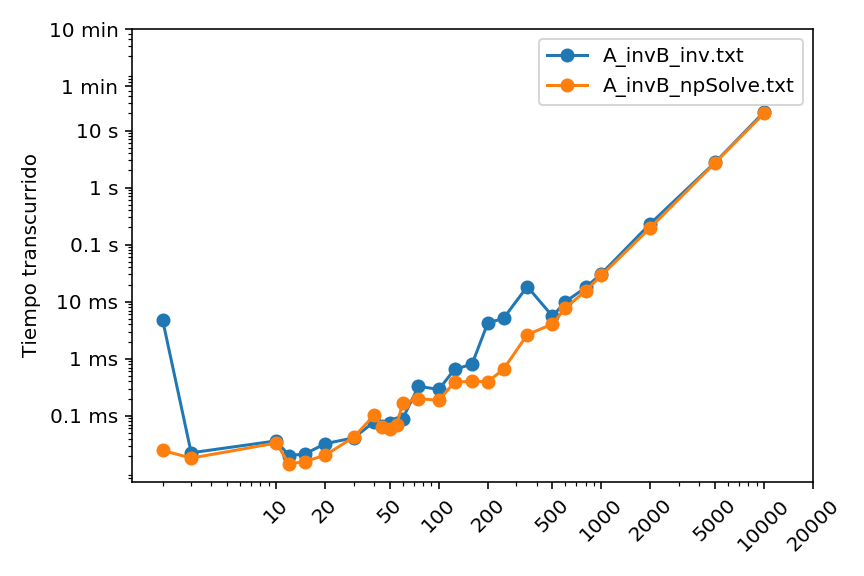
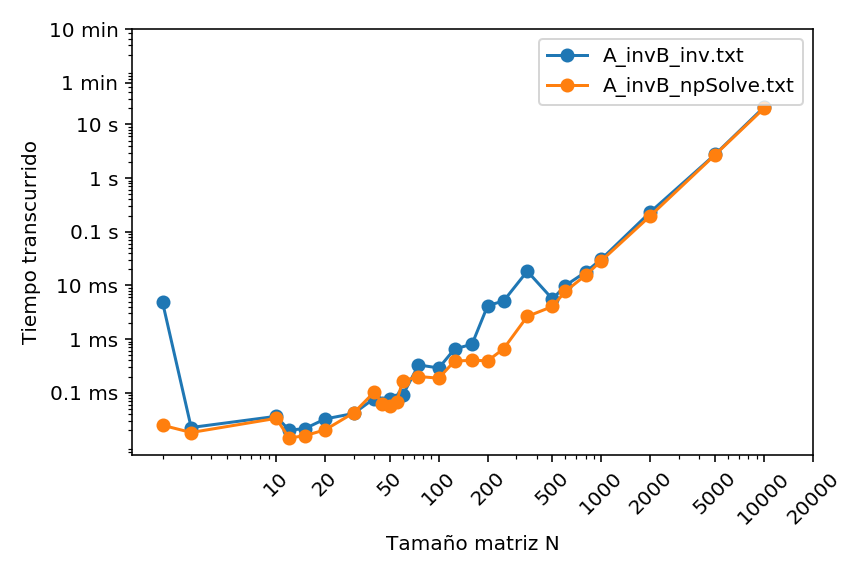
Add files via upload

diff --git a/Entrega5/plotting_E5.py b/Entrega5/plotting_E5.py
@@ -20,11 +20,12 @@ def plotting(names):
         plt.xticks(ejex,ejex,rotation=45) #tamanos de matriz
         plt.yticks(ejey,ejey_labels) #tiempo en segundos
         plt.ylabel('Tiempo transcurrido')
+        plt.xlabel('Tamaño matriz N')
         plt.grid()
         
     plt.tight_layout()
     plt.legend()
-    plt.savefig('Entrega_5.jpg')
+    plt.savefig('Entrega_5.png')
     plt.show()
     
 plotting(names)
